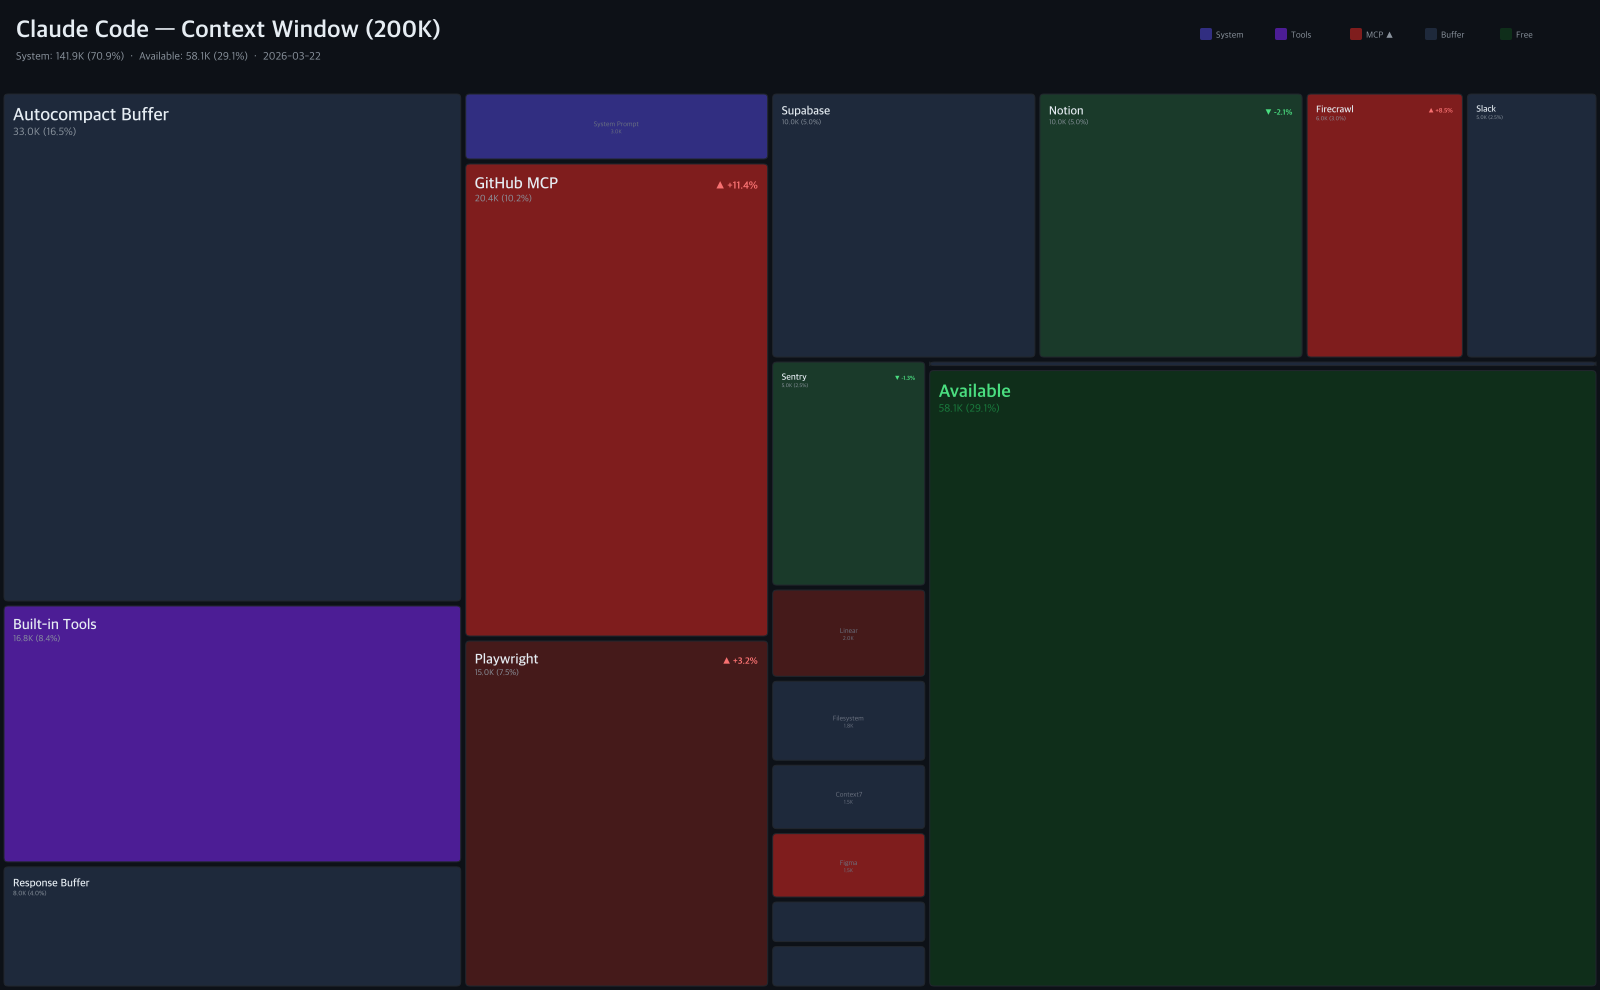
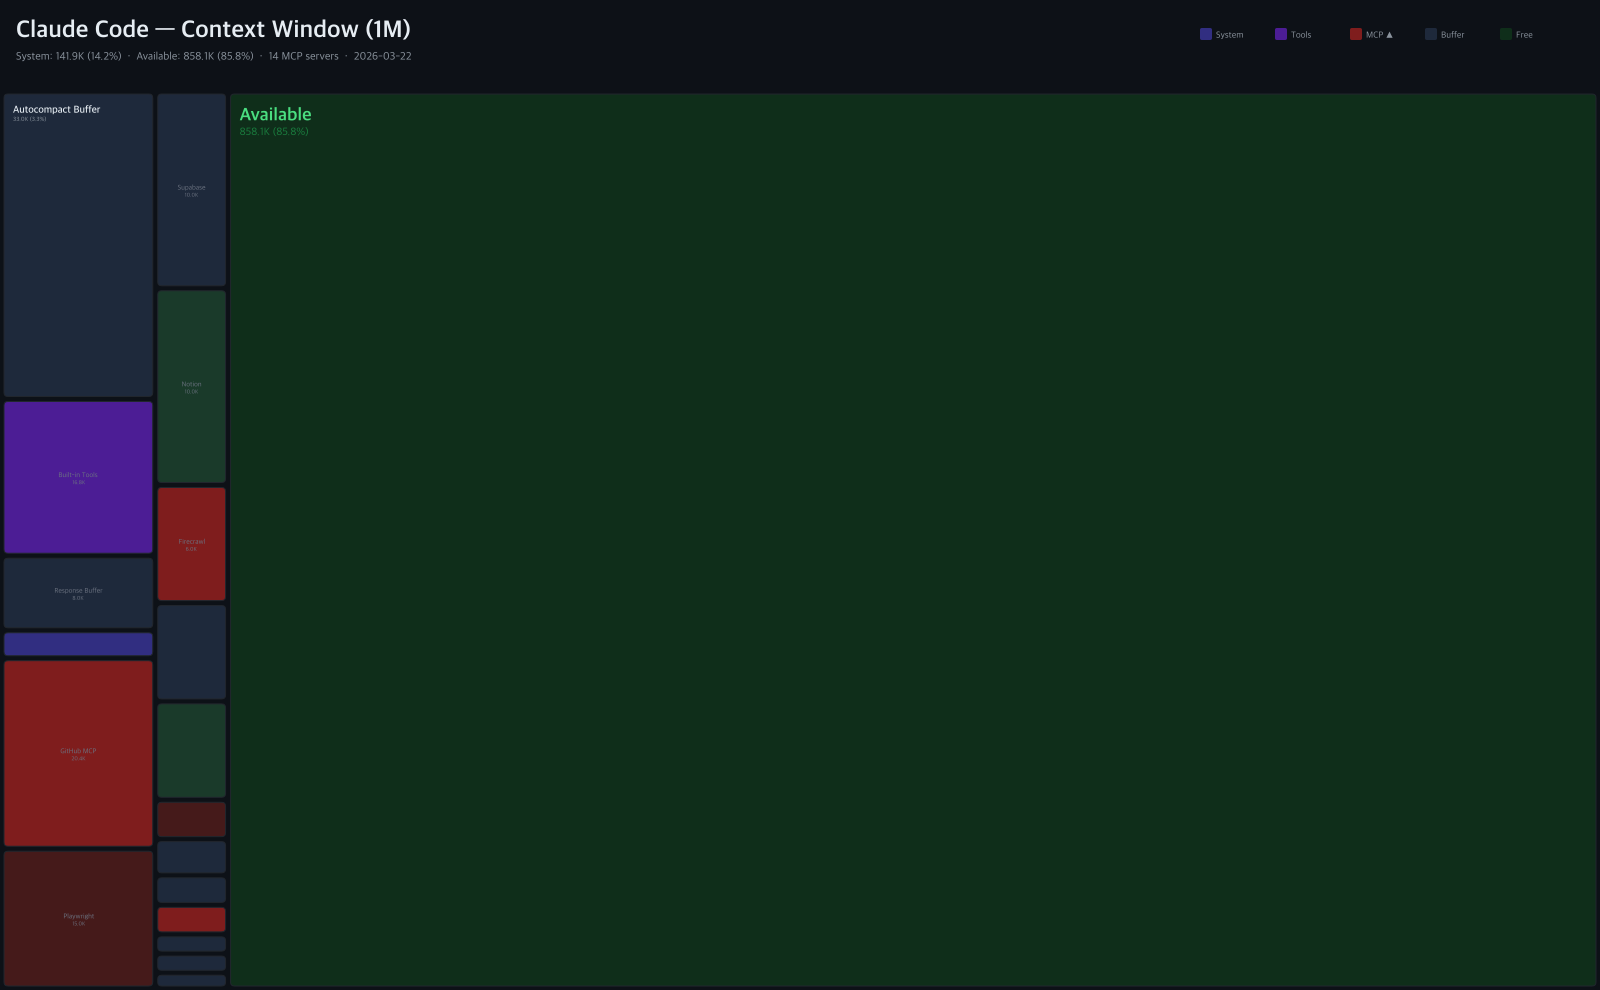
Update context window sizes: Claude Code 1M, Codex 272K
- Claude Code: 1M context (Opus 4.6)
- Codex: 272K context (gpt-5.4 default)
- MCP treemap header shows % of 1M
- Agent treemaps use per-agent contextWindow from data

diff --git a/scripts/render-treemap.js b/scripts/render-treemap.js
@@ -205,7 +205,7 @@ function renderMcpTreemap(snapshot) {
   setFont(ctx, 11);
   ctx.fillStyle = STYLE.textSecondary;
   ctx.fillText(
-    `Total: ${totalTokens.toLocaleString()} tokens (${(totalTokens / 200000 * 100).toFixed(1)}% of 200K)  ·  ${servers.length} servers  ·  ${totalTools} tools  ·  ${snapshot.date}`,
+    `Total: ${totalTokens.toLocaleString()} tokens (${(totalTokens / 1000000 * 100).toFixed(1)}% of 1M)  ·  ${servers.length} servers  ·  ${totalTools} tools  ·  ${snapshot.date}`,
     16, 62
   );
 
@@ -234,7 +234,8 @@ function renderAgentContext(agentName, agentData, mcpSnapshot) {
   const W = 1600, H = 900;
   const HEADER = 90;
   const PAD = 3;
-  const TOTAL = 200000;
+  const TOTAL = agentData?.contextWindow || 1000000;
+  const totalLabel = TOTAL >= 1000000 ? '1M' : `${(TOTAL / 1000).toFixed(0)}K`;
 
   const canvas = createCanvas(W, H + HEADER);
   const ctx = canvas.getContext('2d');
@@ -339,12 +340,12 @@ function renderAgentContext(agentName, agentData, mcpSnapshot) {
   const freePct = (free / TOTAL * 100).toFixed(1);
   setFont(ctx, 24, 'bold');
   ctx.fillStyle = STYLE.textPrimary;
-  ctx.fillText(`${agentName} — Context Window (200K)`, 16, 38);
+  ctx.fillText(`${agentName} — Context Window (${totalLabel})`, 16, 38);
 
   setFont(ctx, 11);
   ctx.fillStyle = STYLE.textSecondary;
   ctx.fillText(
-    `System: ${formatTokens(used)} (${(used / TOTAL * 100).toFixed(1)}%)  ·  Available: ${formatTokens(free)} (${freePct}%)  ·  ${mcpSnapshot?.date || ''}`,
+    `System: ${formatTokens(used)} (${(used / TOTAL * 100).toFixed(1)}%)  ·  Available: ${formatTokens(free)} (${freePct}%)  ·  ${mcpSnapshot?.servers?.length || 0} MCP servers  ·  ${mcpSnapshot?.date || ''}`,
     16, 60
   );
 

diff --git a/scripts/crawl.js b/scripts/crawl.js
@@ -102,7 +102,7 @@ async function main() {
   const totalTokens = snapshot.servers.reduce((sum, s) => sum + s.tokens, 0);
   const totalTools = snapshot.servers.reduce((sum, s) => sum + s.tools, 0);
   console.log(`\n📋 Summary: ${snapshot.servers.length} servers, ${totalTools} tools, ${totalTokens.toLocaleString()} tokens`);
-  console.log(`   200K context: ${(totalTokens / 200000 * 100).toFixed(1)}% consumed by MCP alone\n`);
+  console.log(`   1M context: ${(totalTokens / 1000000 * 100).toFixed(1)}% consumed by MCP alone\n`);
 }
 
 main().catch(console.error);
